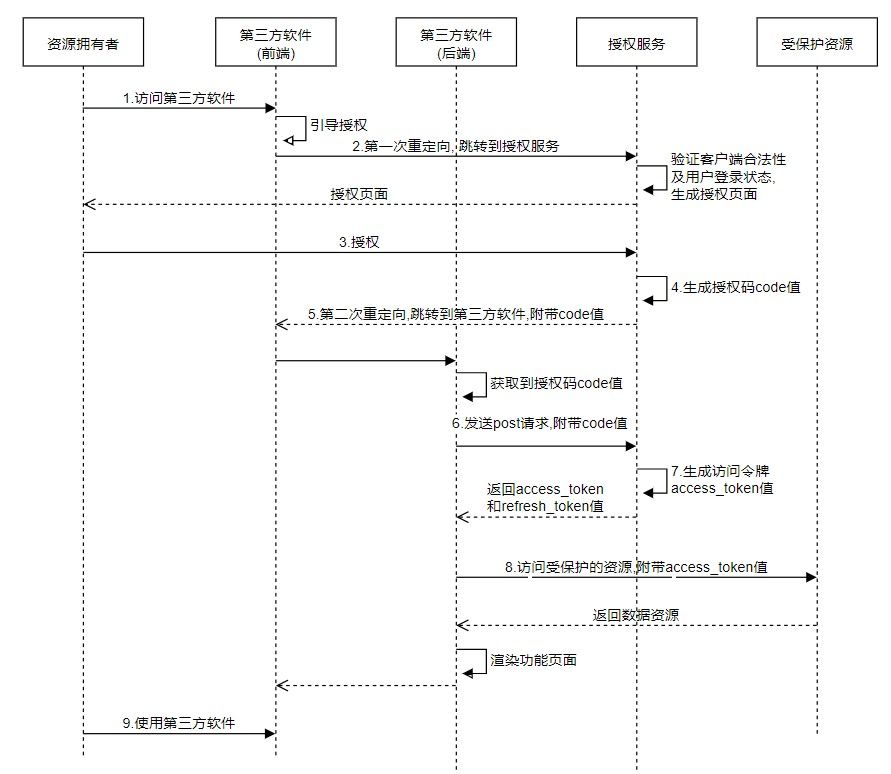
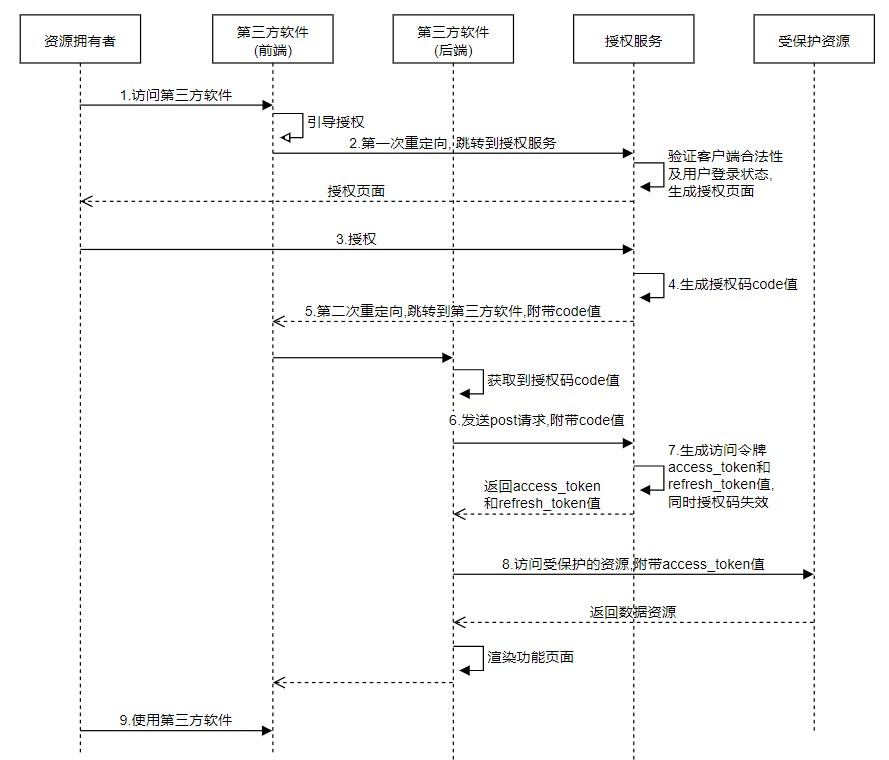
README.md

diff --git a/README.md b/README.md
@@ -10,9 +10,18 @@
 
 OAuth 2.0 是业界标准的授权协议
 
-### 1.1 access token
+### 1.1 OAuth角色
 
-唯一性, 不可连续性, 不可猜测性.
+OAuth 定义了四种角色:
+
+- resource owner: 资源所有者(用户)
+- resource server: 资源服务器
+- client: 客户端(第三方应用)
+- authorization server: 授权服务器
+
+### 1.2 access token
+
+access token 具有唯一性, 不可连续性, 不可猜测性.
 关于结构化令牌, 目前使用最多的是 JWT.
 
 - [JWT](./JWT.md)
@@ -21,16 +30,49 @@ OAuth 2.0 是业界标准的授权协议
 
 ![Protocol Flow](./img/协议流程.png)
 
+
+
+### 注意事项
+
+- 在服务端对输入数据的请求，都尽可能做一次合法性校验
+- 授权服务是整个 OAuth 2.0 体系中的灵魂组件, 任何一种许可类型都离不开它的支持, 它也是最复杂的组件. 授权服务的核心是先颁发授权码 code 值, 再颁发访问令牌 access_token 值. 在颁发访问令牌的同时还会颁发刷新令牌 refresh_token 值, 这种机制可以在无须用户参与的情况下用于生成新的访问令牌.
+- 注意授权范围, 不能让第三方软件获得比注册时权限范围还大的授权, 也不能获得超出了用户授权的权限范围, 始终确保最小权限安全原则.
+
+第三方软件应用需要关注的内容:
+
+- 注册信息: 第三方软件需要去授权服务器注册信息,获取app_id和app_secret等信息,填写回调地址redirect_uri、申请权限等;
+- 引导授权
+- 使用访问令牌
+- 使用刷新令牌
+
+受保护资源服务需要关注的内容:
+
+- 检查令牌合法性
+
+- 权限范围: 权限类别有以下几种
+
+  - 不同的权限对应不同的操作
+
+  - 不同的权限对应不同的数据
+
+  - 不同的用户对应不同的资源
+
+    有很多受保护资源服务,应该有一个统一的网关层来处理权限的校验.
+
 ## 2.授权类型
 
 - 授权码模式(Authorization Code Grant)
-- 隐式授权(Implicit Grant)
 - 密码模式(Resource Owner Password Credentials Grant)
 - 客户端授权模式(Client Credentials Grant)
+- 隐式授权(Implicit Grant)
 
 ### 2.1授权码模式(Authorization Code Grant)
 
-授权码许可类型序列图:
+授权码许可. grant_type为: authorization_code.
+
+授权码模式概括起来就两步,第一步是获取授权码code,第二步是用app_id+app_secret+code获取访问令牌access_token.
+
+序列图:
 
 ![常见的授权码许可类型序列图](./img/常见的授权码许可类型序列图.jpg)
 
@@ -49,21 +91,74 @@ OAuth 2.0 是业界标准的授权协议
   - A3: OAuth 2.0 产生于第三方应用的场景，来管理对外的权限，但是它的本质思想是"用token来代替用户名和密码"。
     对于我们内部的系统服务之间，我们可以借用 OAuth 2.0的这种思想来满足我们的生产环境，比如微服务之间调用需要进行鉴权的时候，我们就可以使用这种token的机制。
 
+#### 适用场景
+
+在所有授权类型中,授权码模式是安全性最高的.因此,只要是具备使用授权码许可类型的条件,首选授权码许可类型.
+
+### 2.2 密码模式(Resource Owner Password Credentials Grant)
+
+资源拥有者凭证许可. 所谓资源拥有者的凭证,就是用户名和密码. grant_type为: password.
+
+序列图
+
+![资源拥有者凭证许可序列图](./img/资源拥有者凭证许可序列图.jpg)
+
+#### 适用场景
+
+一般用于第三方软件是服务官方出品, 同一个企业内部的不同产品,
+
+### 2.3 客户端授权模式(Client Credentials Grant)
+
+客户端凭证许可. grant_type为: client_credentials.
+
+序列图
+
+![客户端凭证许可序列图](./img/客户端凭证许可序列图.jpg)
 
 
 
-### 注意事项
+#### 适用场景
 
-- 在服务端对输入数据的请求，都尽可能做一次合法性校验
-- 授权服务是整个 OAuth 2.0 体系中的灵魂组件, 任何一种许可类型都离不开它的支持, 它也是最复杂的组件. 授权服务的核心是先颁发授权码 code 值, 再颁发访问令牌 access_token 值. 在颁发访问令牌的同时还会颁发刷新令牌 refresh_token 值, 这种机制可以在无须用户参与的情况下用于生成新的访问令牌.
-- 注意授权范围, 不能让第三方软件获得比注册时权限范围还大的授权, 也不能获得超出了用户授权的权限范围, 始终确保最小权限安全原则.
+如果没有明确的资源拥有者,比如某个LOGO的图片地址,比如平台提供的省市区信息,这些不属于任何一个第三方用户.这种场景下的授权,第三方软件可以直接使用app_id和app_secret来获取访问令牌.
 
 
+### 2.4 隐式授权(Implicit Grant)
+
+隐式许可.又称简化授权模式.它和授权码模式相似,只不过少了获取授权码的步骤,是直接获取令牌access_token的,且没有refresh_token.  因为使用授权码的目的之一是把浏览器和第三方软件的信息隔离,确保浏览器看不到第三方软件的access_token值. 隐式许可适用于第三方应用没有后端服务只是在浏览器里面执行的,这种情况下,第三方软件对于浏览器没有任何保密的数据可以隐藏,所以不需要app_secret,也不需要通过授权码code来换取访问令牌access_token.
+
+安全性低.
+
+序列图
+
+![隐式许可序列图](./img/隐式许可序列图.jpg)
+
+#### 适用场景
+
+适用于公开的浏览器单页应用,只嵌入到浏览器端且没有服务端的应用,以及没有server的APP应用.
+
+### 2.5 四种授权模式的对比
+
+|  授权许可类型    |  获取访问令牌的方式    |
+| ---- | ---- |
+|  授权码许可    |  通过授权码code获取access_token    |
+|  资源拥有者凭证许可    |  通过资源拥有者的用户名和密码获取access_token    |
+|  客户端凭证许可    |  通过第三方软件的app_id和app_secret获取access_token    |
+|  隐式许可    |  通过嵌入浏览器中的第三方软件的app_id获取access_token    |
+
+### 2.6 APP中使用OAuth 2.0
+
+以上时序图画的都是基于web端应用,对于APP应用,OAuth 2.0一样使用. APP应用可分为两类:一类是有server端的APP应用,一类是没有server端的APP应用.
+
+对于没有server端的APP应用,该如何使用授权码许可类型呢?
+
+没有server端的APP应用使用授权码许可类型,需要解决的问题:APP被安装到终端设备,请求访问令牌时需要的app_secret只能保存在本地,app_secret一旦被破解,将造成灾难性后果.
+
+OAuth 2.0中的指导方法: Proof Key for Code Exchange([PKCE协议](https://oauth.net/2/pkce/))
 
 
 ## 参考文章
 - https://oauth.net/2/
-- https://datatracker.ietf.org/doc/html/rfc6749 (The most important)
+- https://datatracker.ietf.org/doc/html/rfc6749
 - https://www.ruanyifeng.com/blog/2014/05/oauth_2_0.html
 - https://projects.spring.io/spring-security-oauth/docs/oauth2.html
 - https://blog.didispace.com/spring-security-oauth2-xjf-1/
